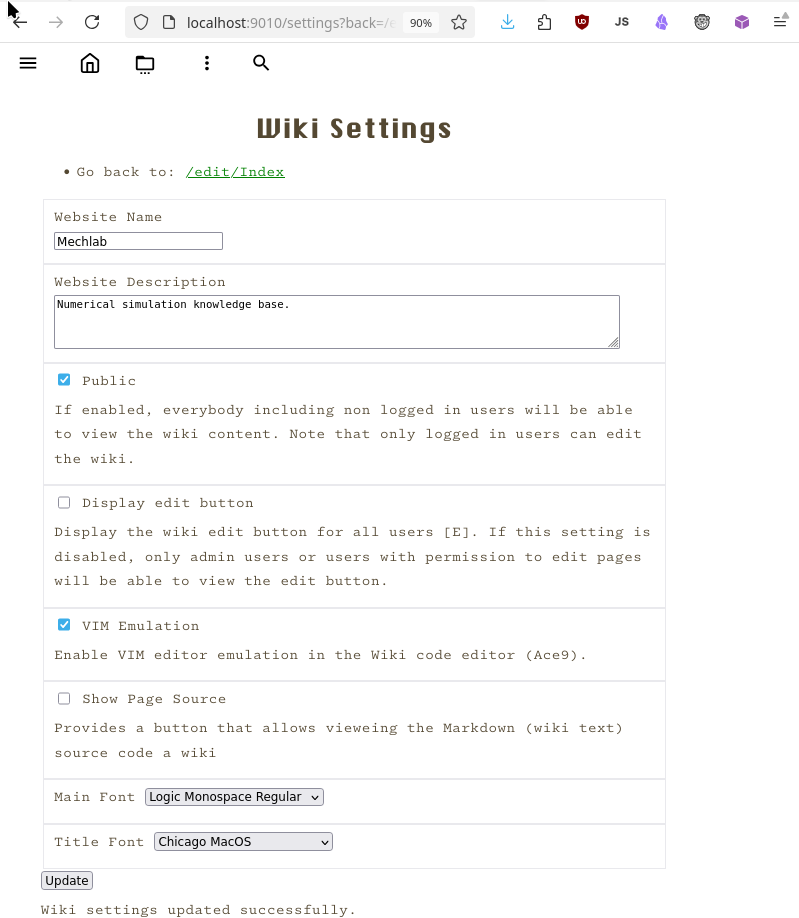
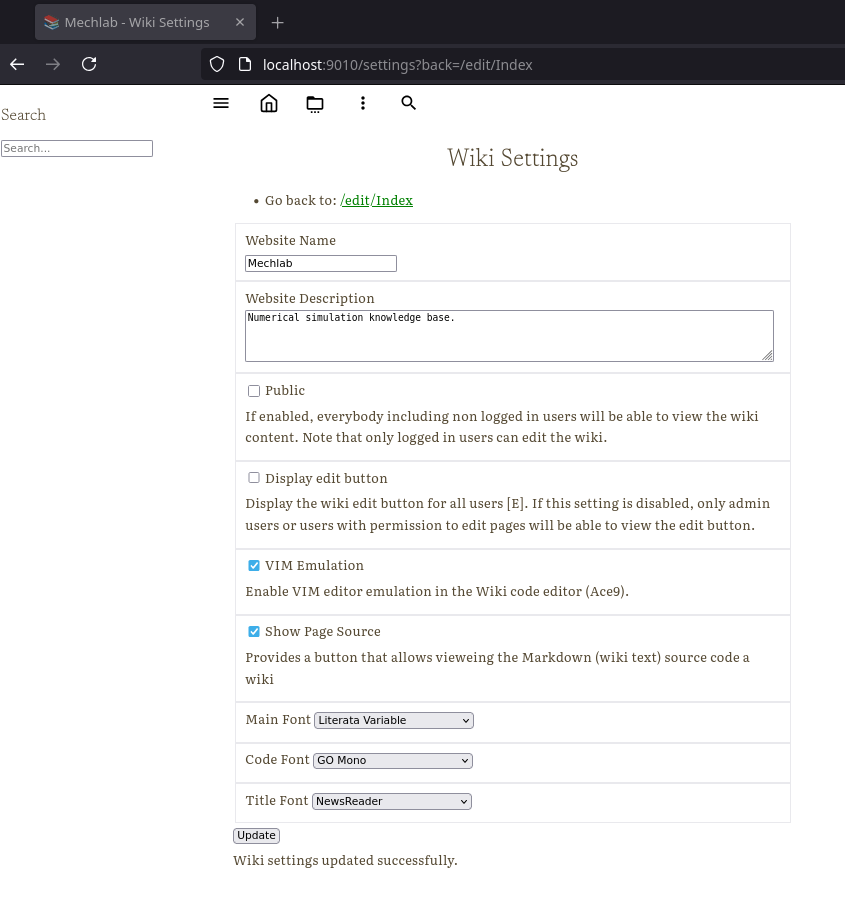
Launch release v0.5.

diff --git a/docs/README-portuguese.md b/docs/README-portuguese.md
@@ -148,6 +148,13 @@ NOTA: Embora as animações GIF estejam desatualizadas devido às principais mud
 
 ### Capturas de Tela (Screenshot)
 
+
+**Tela de Login (Autenticação)**
+
+Se o wiki estiver configurado como não público nos formulários de configuração, o usuário será redirecionado para o formulário de autenticação. O redirecionamento para este formulário também ocorre se o usuário tentar acessar qualquer página que exija autenticação.
+
+![](docs/images/login-screen.png)
+
 **Captura de Tela 1 do Wiki**
 
 Esta página do Wiki, cujo URL relativo é /wiki/Linear%20Algebra%20New, é gerada pelo processamento do arquivo 'Linear Algebra New.md'.
@@ -235,20 +242,24 @@ $ uv tool install git+https://github.com/caiorss/mwiki
 Instalou 2 executáveis: mwiki, mwiki-convert
 ```
 
-Instalar a versão estável mais recente: versão v0.4
+Instalar a versão estável mais recente: versão v0.5
+
+```sh
+$ uv tool install https://github.com/caiorss/mwiki/archive/refs/tags/v0.5.zip
+```
+
+Instalar a versão: versão v0.4
+
 
 ```sh
 $ uv tool install https://github.com/caiorss/mwiki/archive/refs/tags/v0.4.zip
-```
 
-Instalar a versão estável mais recente (usando o hash do commit que não tem como ser mudado após o commit ser publico): versão v0.4
+#ou 
 
-
-```sh
 $ uv tool install https://github.com/caiorss/mwiki/archive/a7d898080f8549d82fd8eb2766822cefeb776e1e.zip
 ``` 
 
-Instalar a versão estável mais recente: versão v0.3.1
+Instalar a versão: versão v0.3.1
 
 ```sh
 $ uv tool install https://github.com/caiorss/mwiki/archive/refs/tags/v0.3.1.zip
@@ -259,7 +270,7 @@ $ uv tool install https://github.com/caiorss/mwiki/archive/3f4d38a8bc103dee8f892
 ```
 
 
-Instalar a versão estável mais recente: versão v0.2
+Instalar a versão: versão v0.2
 
 ```sh
 $ uv tool install https://github.com/caiorss/mwiki/archive/refs/tags/v0.2.zip
@@ -938,10 +949,13 @@ O seguinte conjunto de softwares ou aplicativos complementares são recomendados
     + https://noscript.net/
     + *Browser extension that blocks scripts by default.*
     + *Extensão do navegador que bloqueia scripts por padrão.*
-+ *Árvore de Tabs para Firefox* (melhor navegação em muitas tabs)
++ *Tree-Style Tabs (Árvore de Tabs para Firefox)* (melhor navegação em muitas tabs)
     + https://addons.mozilla.org/en-US/firefox/addon/tree-style-tab
-
-
++ *YouTube No Translation (addons.mozilla.org)*
+  + https://addons.mozilla.org/en-US/firefox/addon/youtube-no-translation/
++ *Cookie AutoDelete* (Para melhor privacidade e menos rastreamento)
+  + https://addons.mozilla.org/en-US/firefox/addon/cookie-autodelete/
+  + *Controle seus cookies! Esta WebExtension é inspirada nos Cookies Autodestrutivos. Quando uma aba é fechada, todos os cookies que não estão sendo utilizados são excluídos automaticamente. Mantenha aqueles em que você confia (para sempre/até reiniciar) e exclua os demais. Contêineres suportados.* (Tradução)
 
 **Tradução e Conversão de Texto em Fala**
 
@@ -1008,6 +1022,10 @@ Uma VPN Mesh Site-to-Site, como a **tailscale**, pode ser útil para hospedar es
 
 + *If it is worth keeping, save it in Markdown (Se vale a pena manter, salve em Markdown)*
   + https://p.migdal.pl/blog/2025/02/markdown-saves
++ *Why I prefer human-readable file formats*
+  + https://adele.pollux.casa/gemlog/2025-08-04_why_I_prefer_human-readble_file_formats.gmi
++ *How I use Tailscale*, Chris Smith (2025)
+  + https://chameth.com/how-i-use-tailscale/
 + *Exposing a web service with Cloudflare Tunnel (Expondo um serviço web com o Tunnel Cloudflare)*, Erissa A (2022)
   + https://erisa.dev/exposing-a-web-service-with-cloudflare-tunnel/
   + *What if you could host a web service with no ports exposed? With Cloudflare Tunnel, you can!*

diff --git a/README.md b/README.md
@@ -150,6 +150,12 @@ NOTE: Although the GIF animations are outdated due to the major layout and UI - 
 
 ### Screenshots
 
+**Login Screen**
+
+If the wiki is configured in the settings forms as non public, the user will be redirected to the authentication form. Redirection to this form also happens if the user attempts to access any page requiring authentication.
+
+![](docs/images/login-screen.png)
+
 **Wiki Screenshot 1**
 
 This Wiki page, whose relative URL is /wiki/Linear%20Algebra%20New is generated by processing the file 'Linear Algebra New.md'.
@@ -239,17 +245,22 @@ $ uv tool install git+https://github.com/caiorss/mwiki
   Installed 2 executables: mwiki, mwiki-convert
 ```
 
-Install latest stable release: version v0.4
+Install latestt stable release: version 0.5
+
+```sh
+$ uv tool install https://github.com/caiorss/mwiki/archive/refs/tags/v0.5.zip
+```
+
+Install release: version v0.4
+
 
 ```sh
 $ uv tool install https://github.com/caiorss/mwiki/archive/refs/tags/v0.4.zip
-```
 
-Install latest stable release (use hash commit, that cannot be changed after the commit is public): version v0.4
+# Or (reproducible install)
 
-```sh
 $ uv tool install https://github.com/caiorss/mwiki/archive/a7d898080f8549d82fd8eb2766822cefeb776e1e.zip
-```  
+```
 
 Install release: version v0.3.1
 
@@ -1095,12 +1106,19 @@ A site-to-site mesh VPN such as **tailscale** can be helpful for self hosting th
   + https://headscale.net/stable
 + *Headscale Server - Github Repository* (Written in GO - Golang)
   + https://github.com/juanfont/headscale
++ *Cookie AutoDelete* (For better privacy and less tracking)
+  + https://addons.mozilla.org/en-US/firefox/addon/cookie-autodelete/
+  + *Control your cookies! This WebExtension is inspired by Self Destructing Cookies. When a tab closes, any cookies not being used are automatically deleted. Keep the ones you trust (forever/until restart) while deleting the rest. Containers Supported.*
 
 
 ##  Further Reading 
 
 + *If it is worth keeping, save it in Markdown*
   + https://p.migdal.pl/blog/2025/02/markdown-saves
++ *Why I prefer human-readable file formats*
+  + https://adele.pollux.casa/gemlog/2025-08-04_why_I_prefer_human-readble_file_formats.gmi
++ *How I use Tailscale*, Chris Smith (2025)
+  + https://chameth.com/how-i-use-tailscale/
 + *Exposing a web service with Cloudflare Tunnel*, Erissa A (2022)
   + https://erisa.dev/exposing-a-web-service-with-cloudflare-tunnel/
   + *What if you could host a web service with no ports exposed? With Cloudflare Tunnel, you can!*

diff --git a/docs/changelog.md b/docs/changelog.md
@@ -1,5 +1,22 @@
 # Changelog 
 
+## Release v0.5
+
+
++ Implement site settings for changing code font.
+   + Implement settings form option that allows the admin to change the default code font (monospace font/typeface).
++ Implement caching of markdown-to-html compilation.
+  + Implement caching of markdown-to-html compilation, which allows faster page response and less server load (CPU usage) as the markdown files of wiki pages (notes)  are recompiled only when they are modified or when some dependency changes.
++ Add new monospace fonts/typefaces, including Commint Mono, Julia Mono, Julia Mono Light, Libertinus Mono, Libertinus Sans and Libertinus Serif. In this version, the following code (monospace) fonts are available: IBM Plex Mono; Go mono; Logic Monospace Regular; Logic Monospace Medium; Commint Mono; Julia Mono; Julia Mono Light and Libertinus Mono.
++ The popup window "quick open" now search page if input does not match user input.
+   + The popup window "Quick Open Wiki Page", that allows quickly switching to other wiki page by providing a user input text entry with title completion, now searches the terms entered by the user if they do not match any wiki page title.
++ Wiki pages (notes) with spaces in the file name are regarded as the same as pages with underline in the file name.
+  + After this change, the files  'Cloud Computing.md' abd 'Cloud_Computing.md' are regarded as the same file, consequentely the wiki pages 'Cloud Computing' and 'Cloud_Computing' are also regarded as the wiki page (note). This approach improves compatibility with Wikis or note taking applications  that use underline in file name and Wikis that use space in the file name.
++  Bugfix - Fix datalist DOM elment of popup window "Quick Open Wiki Page".
++  Bugfix - Function openWikiPageCallback() now uses underline '_' characters in the url instead of spaces.
++  Bugfix - Fix the display of edit buttons (pencil icons) due to architecture changes.
+   + Passing server data to the page via template no longer works because cached pages are served directly from the compilation output (html files). As a result, a rest api endpoint /api/auth was implemented for allowing the client-side to obtain the configuration data for modify the page without markdown recompilation on every request.
+
 ## Release v0.4
 
 + Use underline in URLs instead of whitespace.
